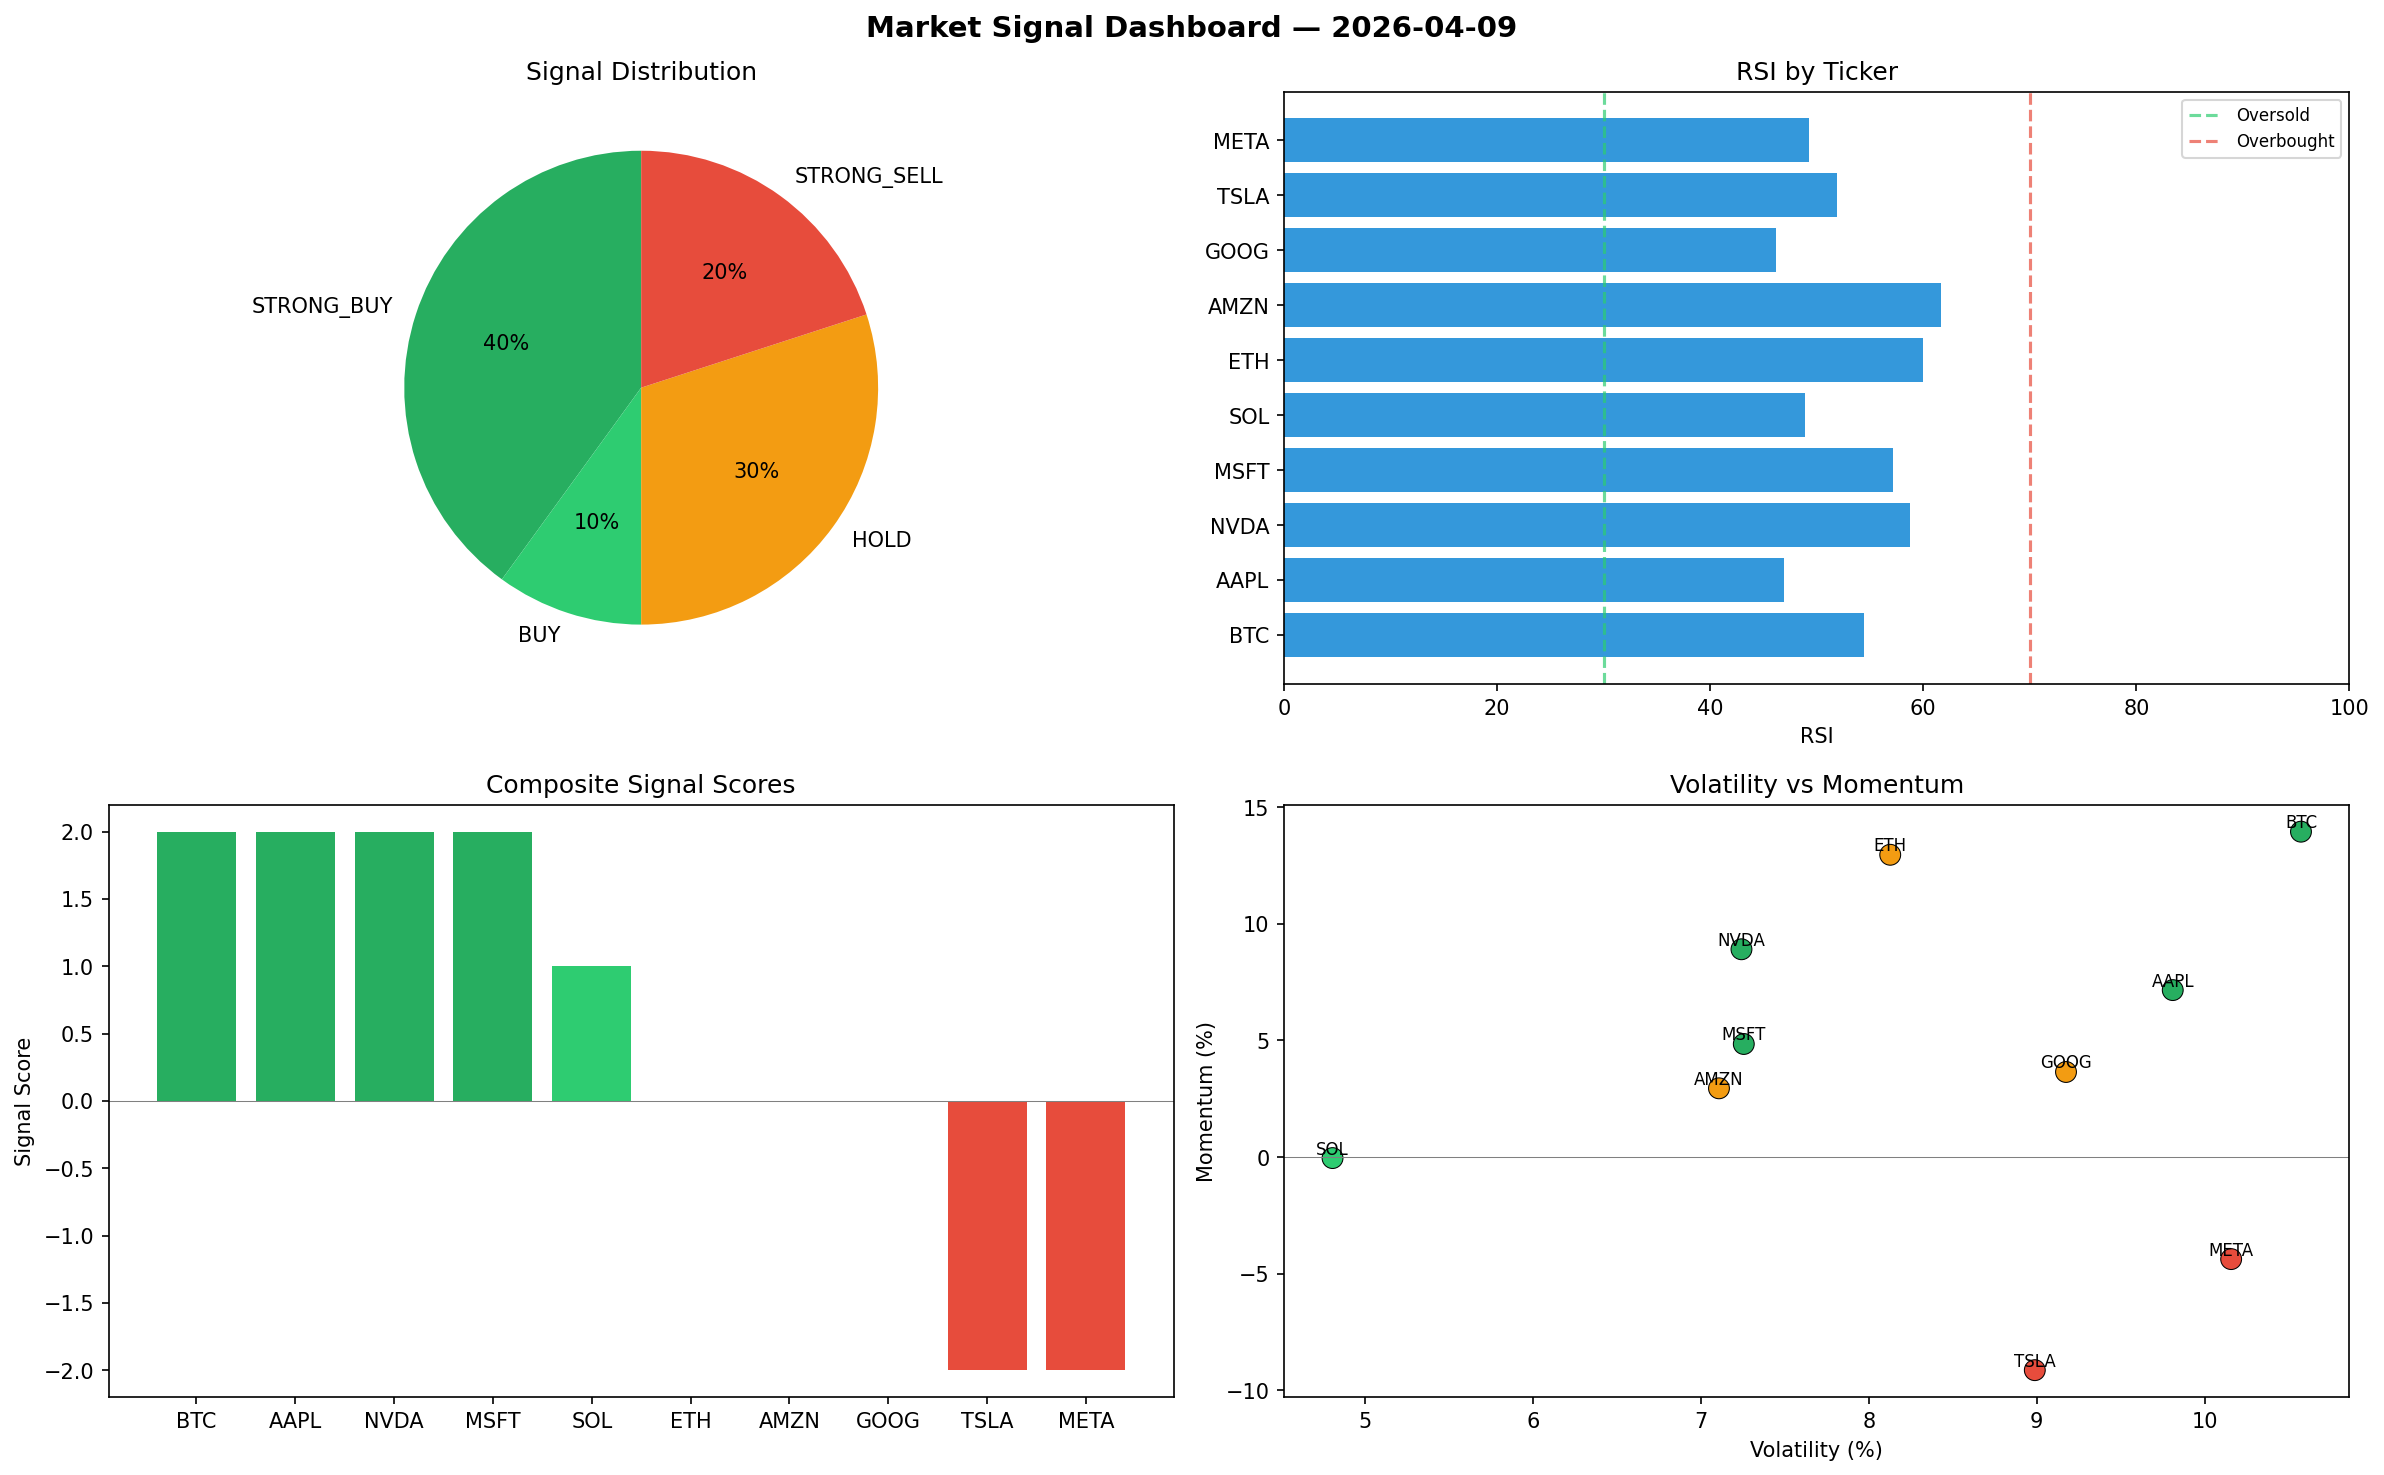
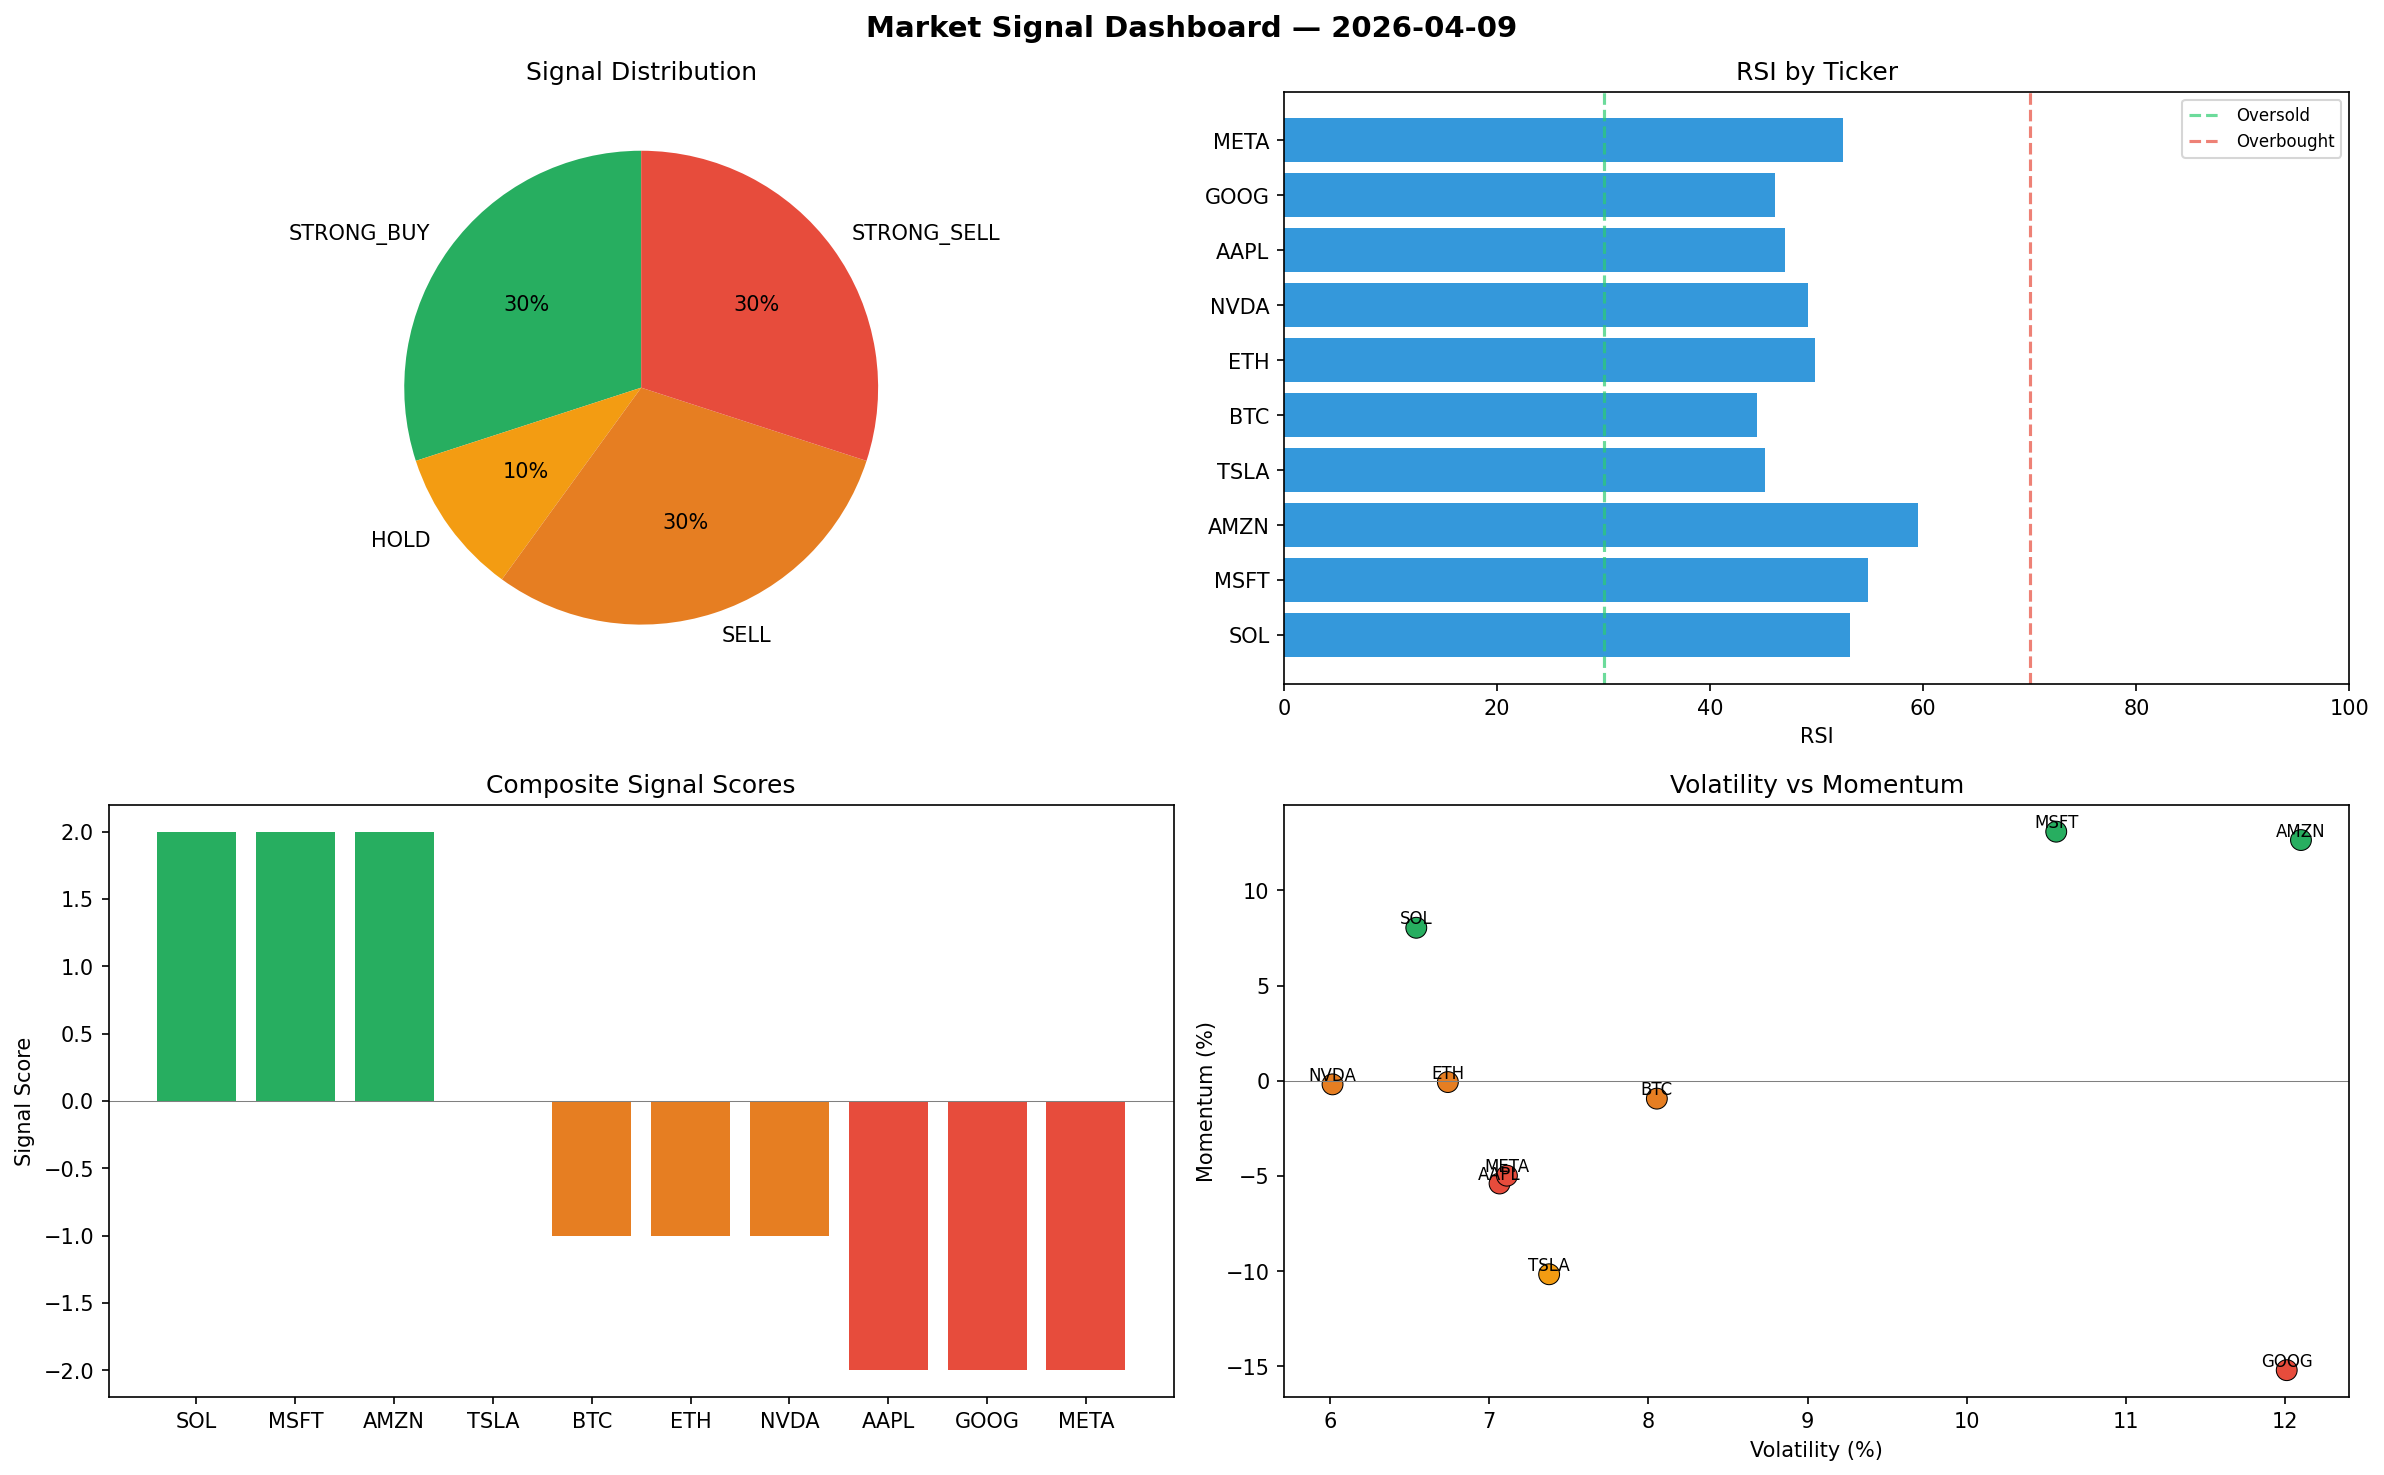
automated-bots: market signals 2026-04-09T09:45

diff --git a/logs/2026-04-09.md b/logs/2026-04-09.md
@@ -1,6 +1,6 @@
 # Market Signal Report — 2026-04-09
 
-**Run ID:** `c3da565e56` | **Buy:** 5 | **Sell:** 2 | **Hold:** 3
+**Run ID:** `32d04e72ae` | **Buy:** 3 | **Sell:** 6 | **Hold:** 1
 
 ![Dashboard](2026-04-09_dashboard.png)
 
@@ -8,28 +8,28 @@
 
 | Ticker | Price | Signal | Score | RSI | Momentum | Confidence |
 |--------|-------|--------|-------|-----|----------|------------|
-| BTC | $3265.07 | **STRONG_BUY** | 2 | 54.44 | 0.1395 | 0.5 |
-| AAPL | $2082.17 | **STRONG_BUY** | 2 | 46.92 | 0.0716 | 0.5 |
-| NVDA | $50.74 | **STRONG_BUY** | 2 | 58.74 | 0.0891 | 0.5 |
-| MSFT | $864.61 | **STRONG_BUY** | 2 | 57.16 | 0.0485 | 0.5 |
-| SOL | $2935.82 | **BUY** | 1 | 48.89 | -0.0004 | 0.25 |
-| ETH | $4001.37 | **HOLD** | 0 | 59.95 | 0.1296 | 0.0 |
-| AMZN | $2034.07 | **HOLD** | 0 | 61.65 | 0.0295 | 0.0 |
-| GOOG | $2860.12 | **HOLD** | 0 | 46.21 | 0.0365 | 0.0 |
-| TSLA | $1865.07 | **STRONG_SELL** | -2 | 51.91 | -0.0913 | 0.5 |
-| META | $4609.79 | **STRONG_SELL** | -2 | 49.24 | -0.0437 | 0.5 |
+| SOL | $3117.42 | **STRONG_BUY** | 2 | 53.1 | 0.0804 | 0.5 |
+| MSFT | $4607.07 | **STRONG_BUY** | 2 | 54.78 | 0.1309 | 0.5 |
+| AMZN | $134.51 | **STRONG_BUY** | 2 | 59.5 | 0.1265 | 0.5 |
+| TSLA | $4610.63 | **HOLD** | 0 | 45.11 | -0.1017 | 0.0 |
+| BTC | $1274.77 | **SELL** | -1 | 44.42 | -0.0094 | 0.25 |
+| ETH | $2590.78 | **SELL** | -1 | 49.79 | -0.0007 | 0.25 |
+| NVDA | $4888.56 | **SELL** | -1 | 49.18 | -0.0019 | 0.25 |
+| AAPL | $2752.46 | **STRONG_SELL** | -2 | 47.0 | -0.054 | 0.5 |
+| GOOG | $567.45 | **STRONG_SELL** | -2 | 46.11 | -0.1521 | 0.5 |
+| META | $2151.56 | **STRONG_SELL** | -2 | 52.47 | -0.0499 | 0.5 |
 
 ## Delta vs Yesterday
 
 | Ticker | Today | Yesterday | Price Change | Signal Changed |
 |--------|-------|-----------|-------------|----------------|
-| BTC | STRONG_BUY | HOLD | 📈 82.95% | ⚠ YES |
-| AAPL | STRONG_BUY | HOLD | 📉 -53.37% | ⚠ YES |
-| NVDA | STRONG_BUY | STRONG_SELL | 📉 -90.94% | ⚠ YES |
-| MSFT | STRONG_BUY | SELL | 📈 103.64% | ⚠ YES |
-| SOL | BUY | STRONG_SELL | 📈 230.75% | ⚠ YES |
-| ETH | HOLD | STRONG_SELL | 📈 322.42% | ⚠ YES |
-| AMZN | HOLD | HOLD | 📈 13.77% | — |
-| GOOG | HOLD | BUY | 📉 -20.52% | ⚠ YES |
-| TSLA | STRONG_SELL | STRONG_SELL | 📉 -58.86% | — |
-| META | STRONG_SELL | STRONG_SELL | 📈 45.23% | — |
+| SOL | STRONG_BUY | STRONG_SELL | 📈 251.21% | ⚠ YES |
+| MSFT | STRONG_BUY | SELL | 📈 985.11% | ⚠ YES |
+| AMZN | STRONG_BUY | HOLD | 📉 -92.48% | ⚠ YES |
+| TSLA | HOLD | STRONG_SELL | 📈 1.69% | ⚠ YES |
+| BTC | SELL | HOLD | 📉 -28.57% | ⚠ YES |
+| ETH | SELL | STRONG_SELL | 📈 173.5% | ⚠ YES |
+| NVDA | SELL | STRONG_SELL | 📈 772.58% | ⚠ YES |
+| AAPL | STRONG_SELL | HOLD | 📉 -38.36% | ⚠ YES |
+| GOOG | STRONG_SELL | BUY | 📉 -84.23% | ⚠ YES |
+| META | STRONG_SELL | STRONG_SELL | 📉 -32.21% | — |
